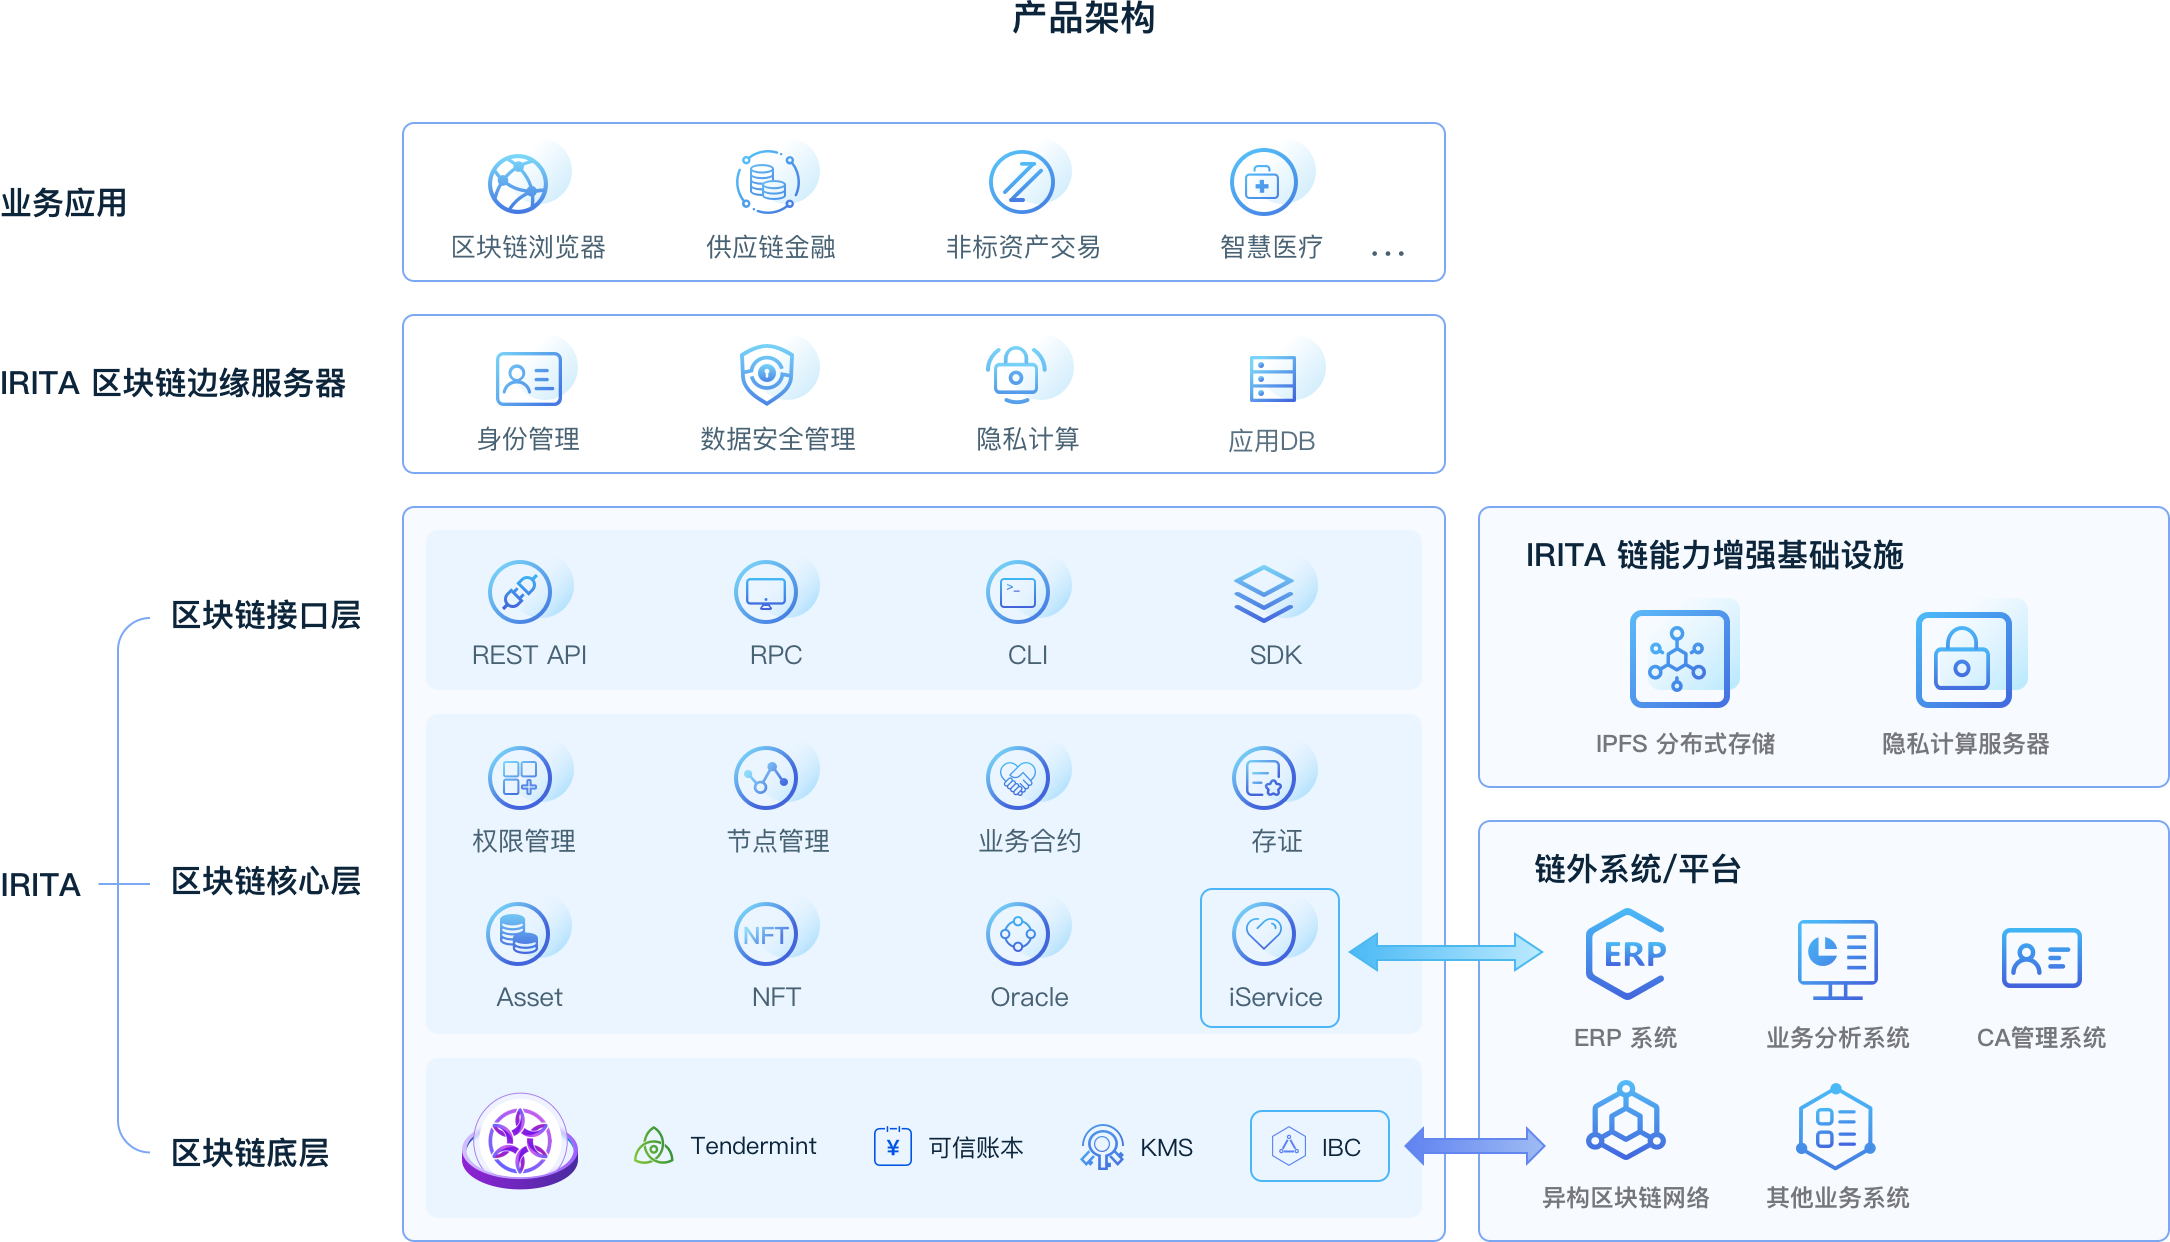
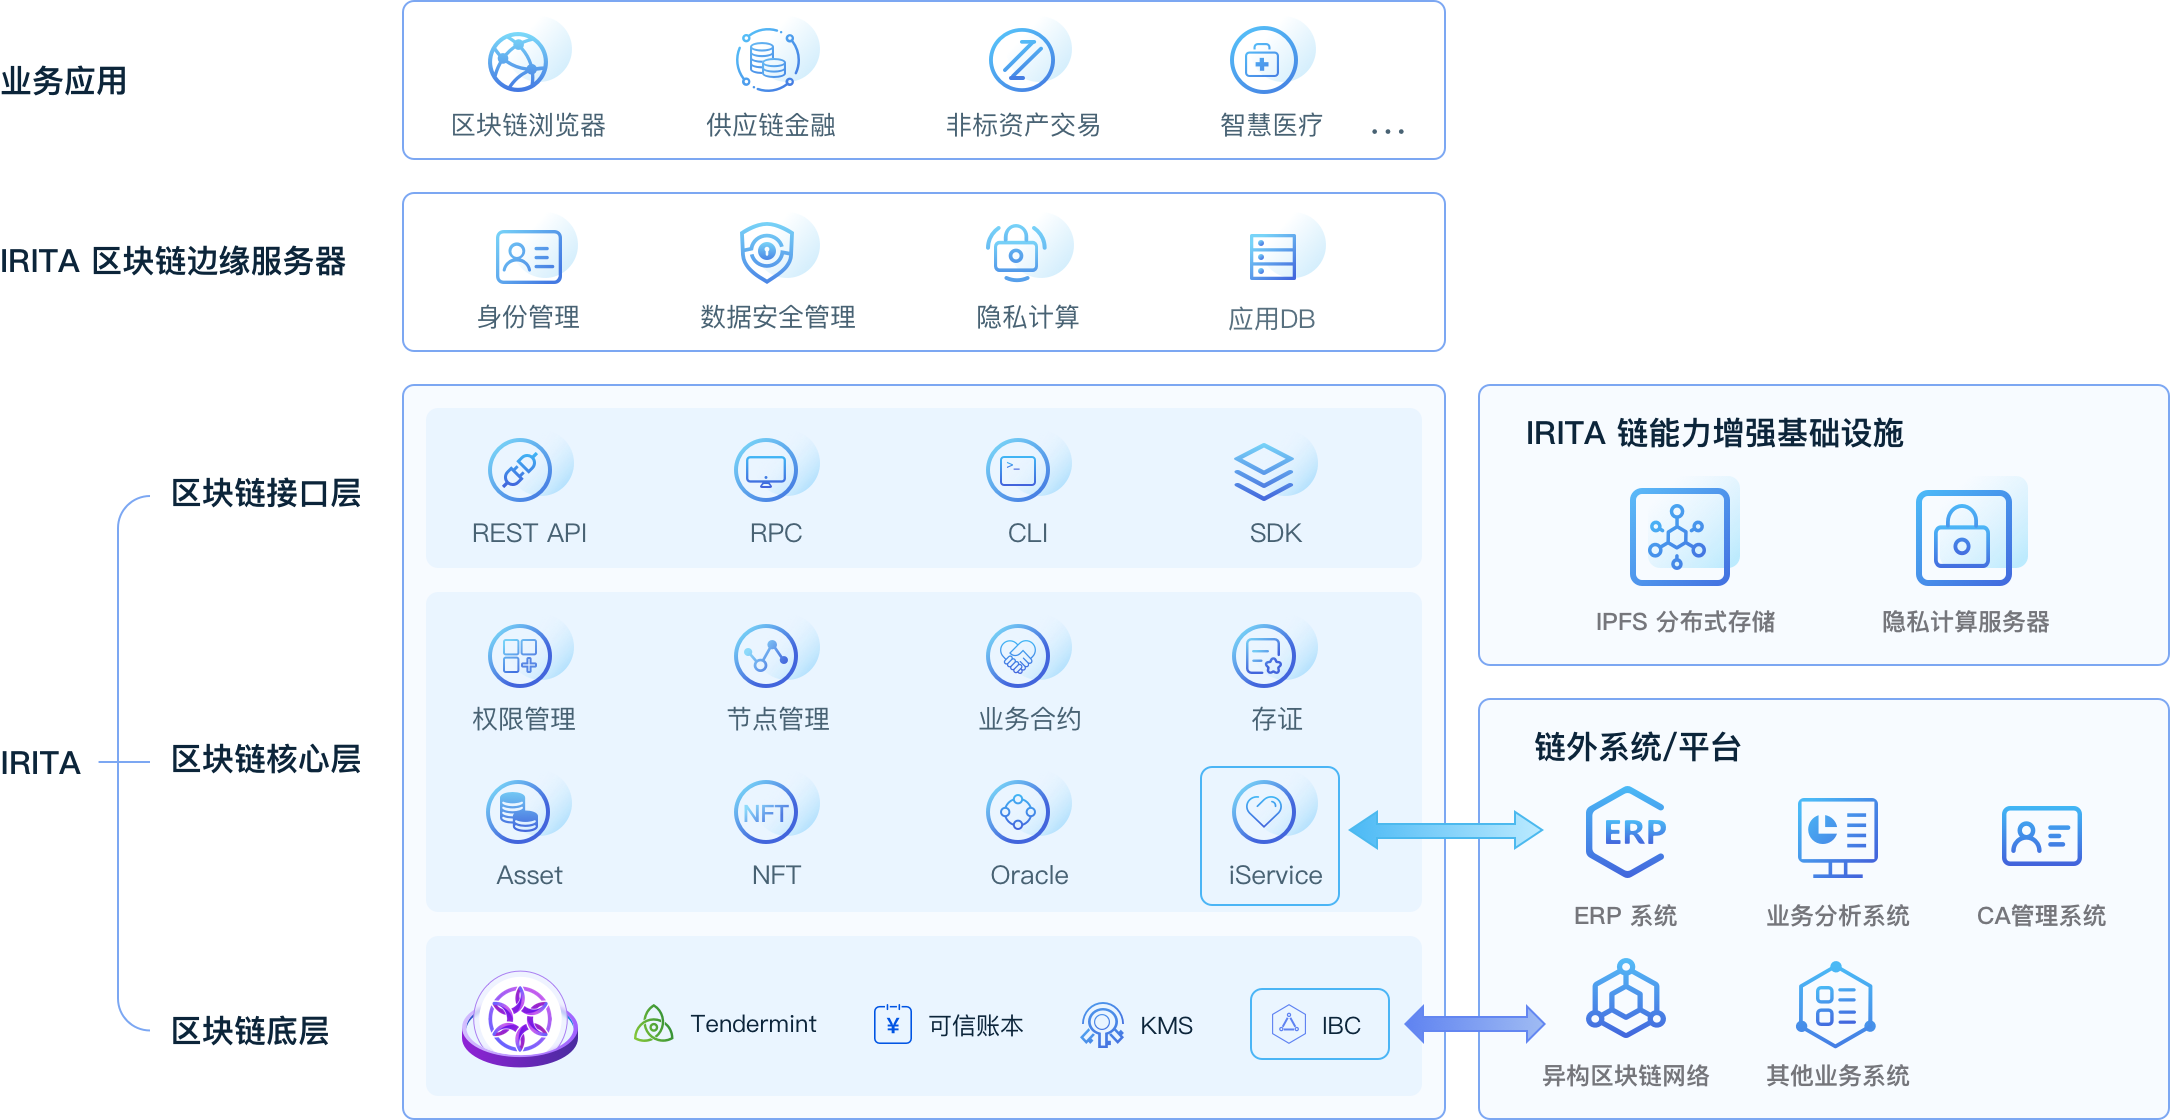
update image

diff --git a/src/components/Header.vue b/src/components/Header.vue
@@ -33,7 +33,7 @@
 					</li>
 				</ul>
                 <div class="print_content">
-                    <router-link :to="'/doc'" @click.native="changHeaderBgColor()" class="irita_doc">技术文档
+                    <router-link :to="'/docs'" @click.native="changHeaderBgColor()" class="irita_doc">技术文档
 
                     </router-link>
 <!--                    <span @click="openPrint()">打印 <img style="width: 0.14rem" src="../assets/home/print_icon.png"></span>-->
@@ -47,7 +47,7 @@
 		<div class="header_mobile_content" v-if="flShowMobileMenu">
 			<ul class="header_mobile_list_content">
 				<li class="header_mobile_list_button" @click="changeRouter(`/home`)"><router-link :to="`/home`">关于IRITA</router-link></li>
-				<li class="header_mobile_list_button" @click="changeRouter(`/doc`)"><router-link :to="`/doc`">技术文档</router-link></li>
+				<li class="header_mobile_list_button" @click="changeRouter(`/docs`)"><router-link :to="`/doc`">技术文档</router-link></li>
 			</ul>
 		</div>
 	</div>
@@ -116,7 +116,7 @@
 				
 				this.flShowBoxShadow = true;
 			}else {
-				if(this.$route.path === '/doc'){
+				if(this.$route.path === '/docs'){
 					this.flShowBoxShadow = true;
 					return
 				}
@@ -146,7 +146,7 @@
 				this.navigationList.forEach( item => {
 					item.isActive = false
 				})
-				isActiveIndex ? this.navigationList[isActiveIndex].isActive = true : null
+				isActiveIndex  !== null ? this.navigationList[isActiveIndex].isActive = true : null
 			},
             openPrint(){
                 window.print()
@@ -193,7 +193,7 @@
 				if(this.scrollTop > 5){
 					this.flShowBoxShadow = true;
 				}else {
-					if(this.$route.path === '/doc'){
+					if(this.$route.path === '/docs'){
 						this.flShowBoxShadow = true;
 						return
 					}

diff --git a/src/router/index.js b/src/router/index.js
@@ -24,7 +24,7 @@ export function createRouter() {
                 redirect:'/home'
             },
             {
-                path: '/doc',
+                path: '/docs',
                 name:Expect,
                 component: Expect
             },
@@ -32,6 +32,10 @@ export function createRouter() {
                 path: '/home',
                 name:ProductionIrita,
                 component: ProductionIrita
+            },
+            {
+                path: '*',
+                redirect:'/home'
             }
 
         ]

diff --git a/src/components/ProductionIrita.vue b/src/components/ProductionIrita.vue
@@ -18,7 +18,7 @@
 		<div class="production_irita_img_content">
 			<div class="production_irita_img_wrap">
 				<div class="production_irita_img">
-					<h3 class="production_irita_title">系统架构</h3>
+					<h3 class="production_irita_title">产品架构</h3>
 					<img src="../assets/irita/IRITA_framework.png" alt="">
 				</div>
 			</div>
